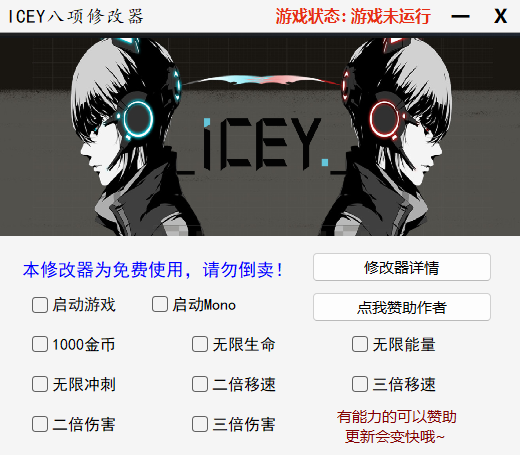
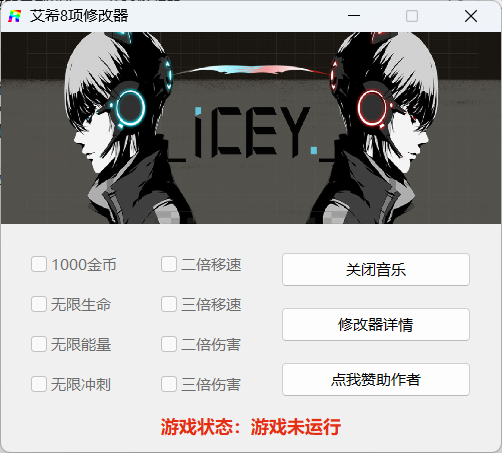
updata

diff --git a/docs/GameTrainer/Trainer/ICEY.md b/docs/GameTrainer/Trainer/ICEY.md
@@ -4,7 +4,7 @@
 
 **修改器简介：**
 
-本修改器由文仔大大制作，共8项功能，修改器支持从修改器启动游戏，游戏启动后需激活启动Mono功能才可使用。
+本修改器由文仔大大制作，共8项功能，游戏启动即可使用。
 
 **注意事项：**
 

diff --git a/docs/GameTrainer/README.md b/docs/GameTrainer/README.md
@@ -6,10 +6,6 @@
 
 #### 3.[艾希修改器](/GameTrainer/Trainer/ICEY.md "艾希修改器") 
 
-#### 4.[深海迷航修改器](/GameTrainer/Trainer/Subnautica.md "深海迷航修改器") 
-
-#### 5.[人类一败涂地修改器](/GameTrainer/Trainer/Human.md "人类一败涂地修改器") 
-
 
 
 
